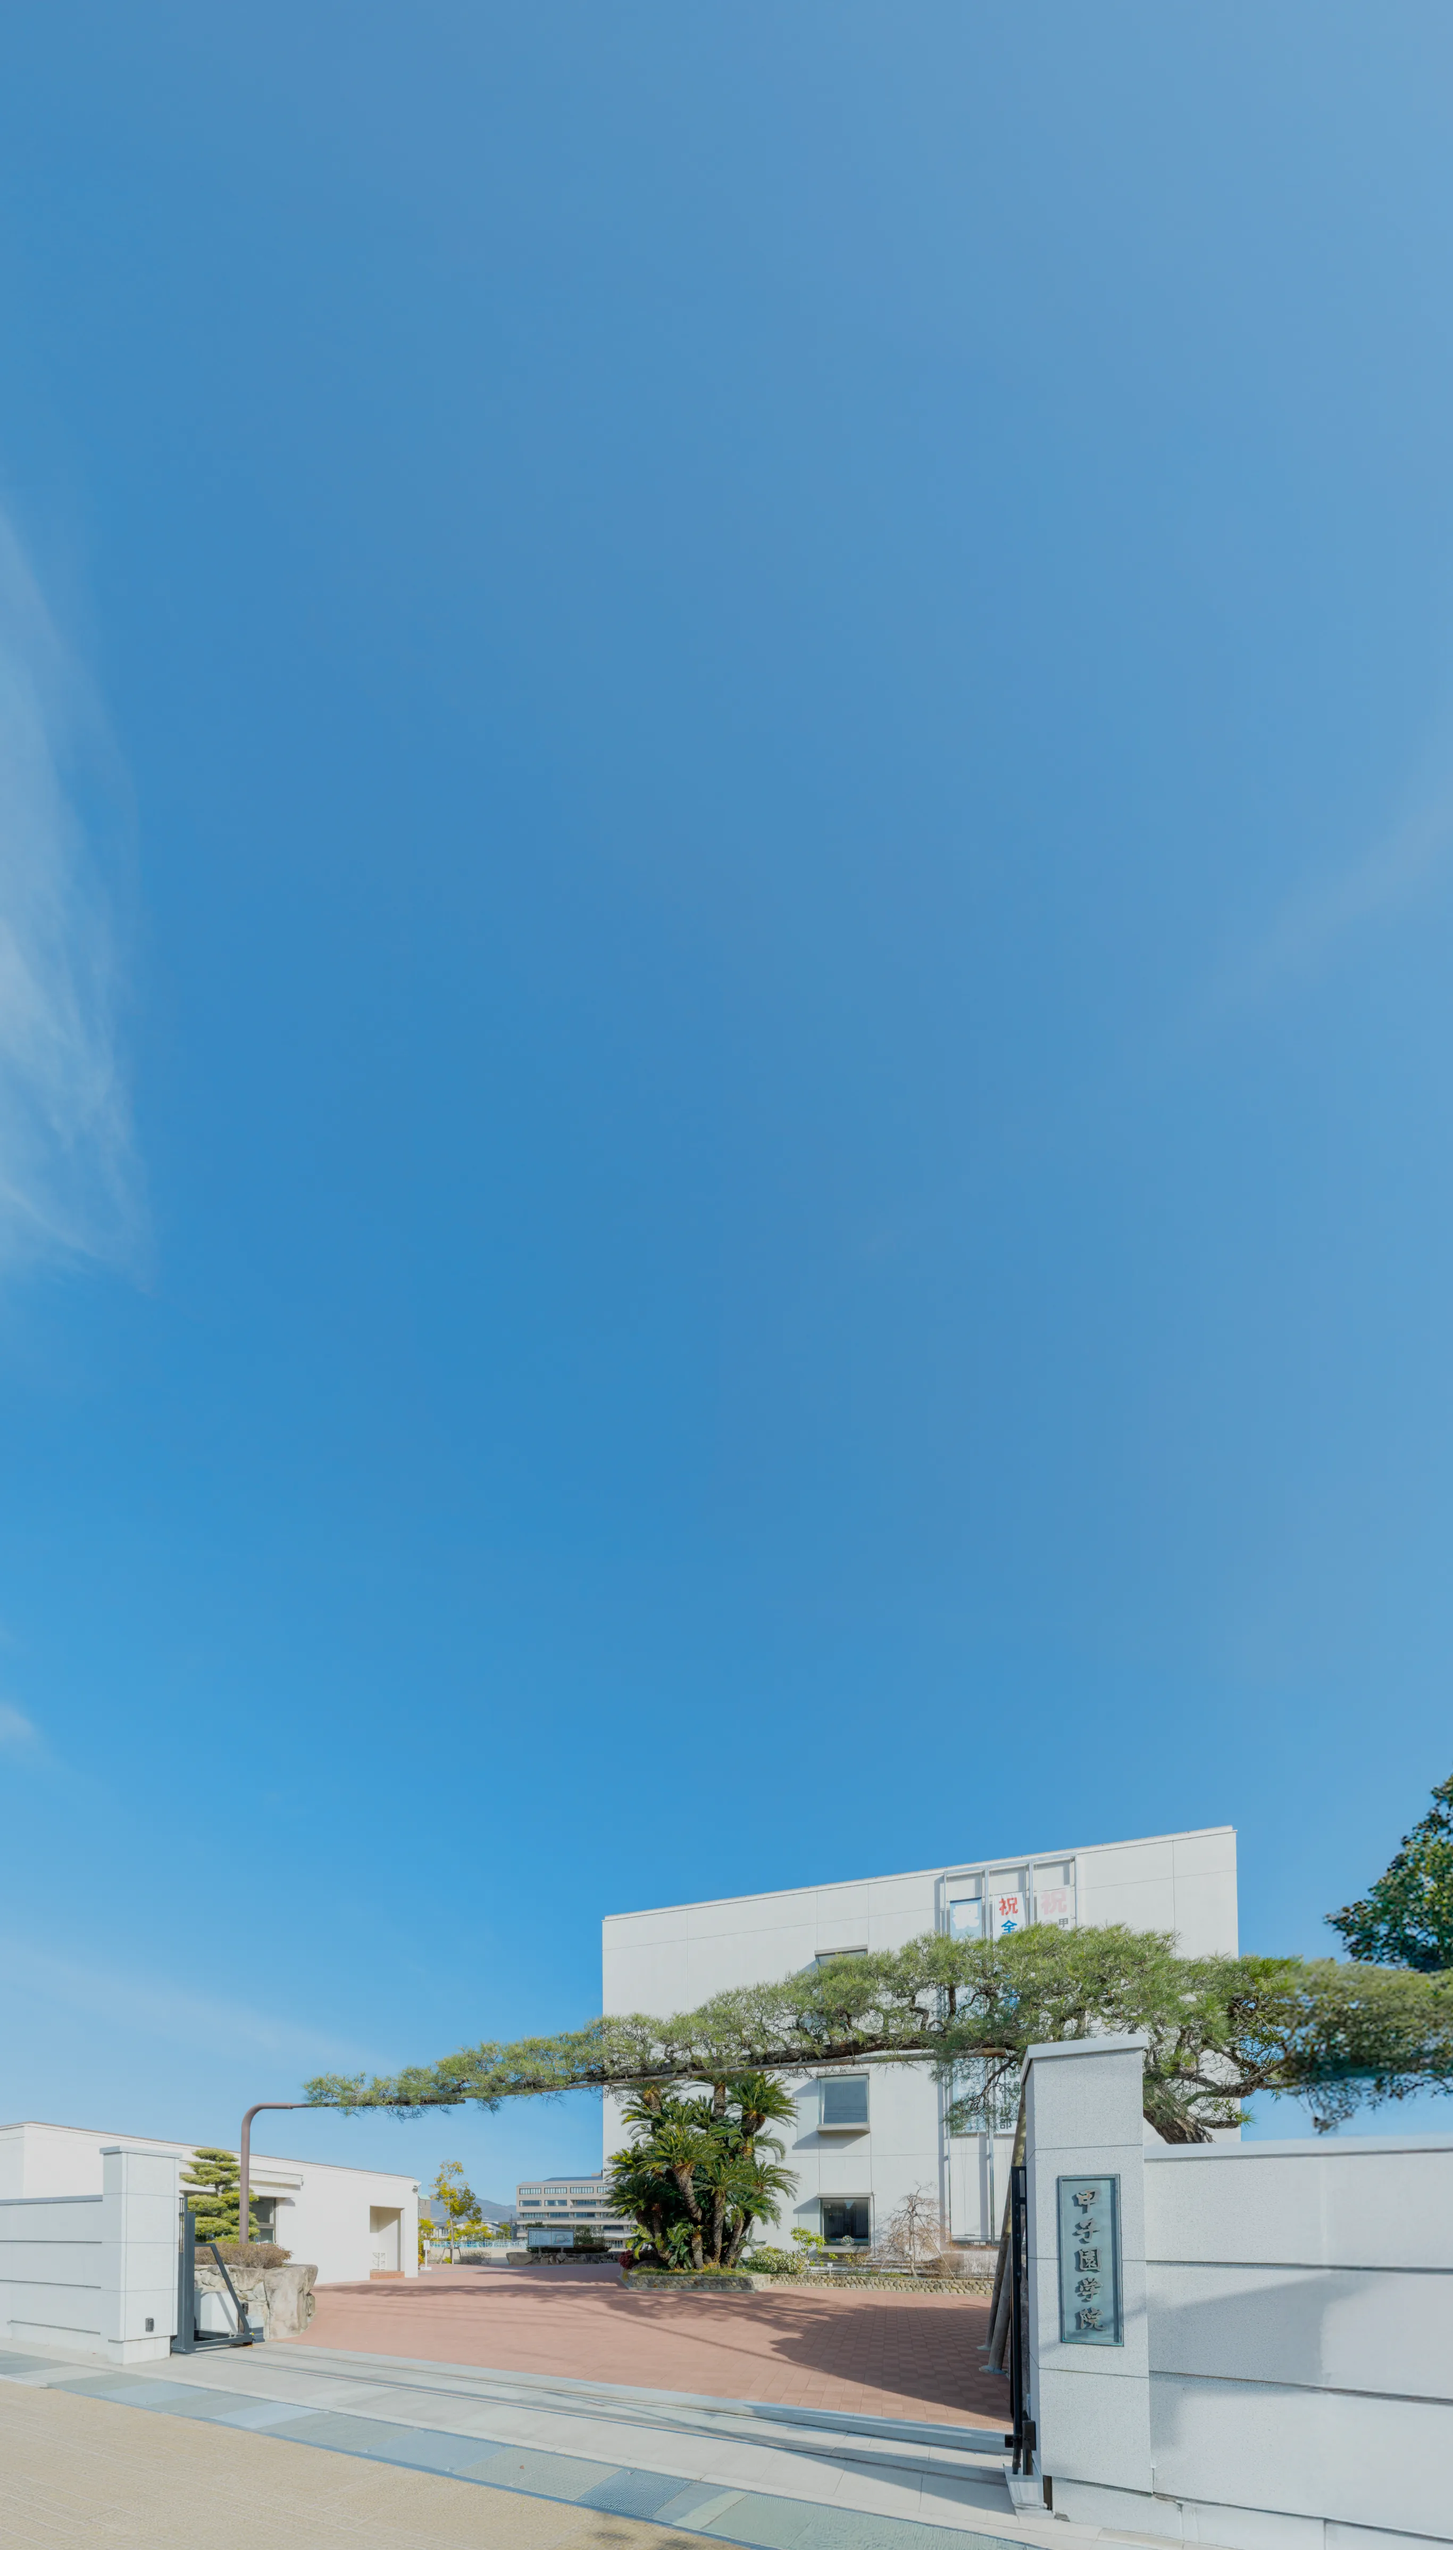
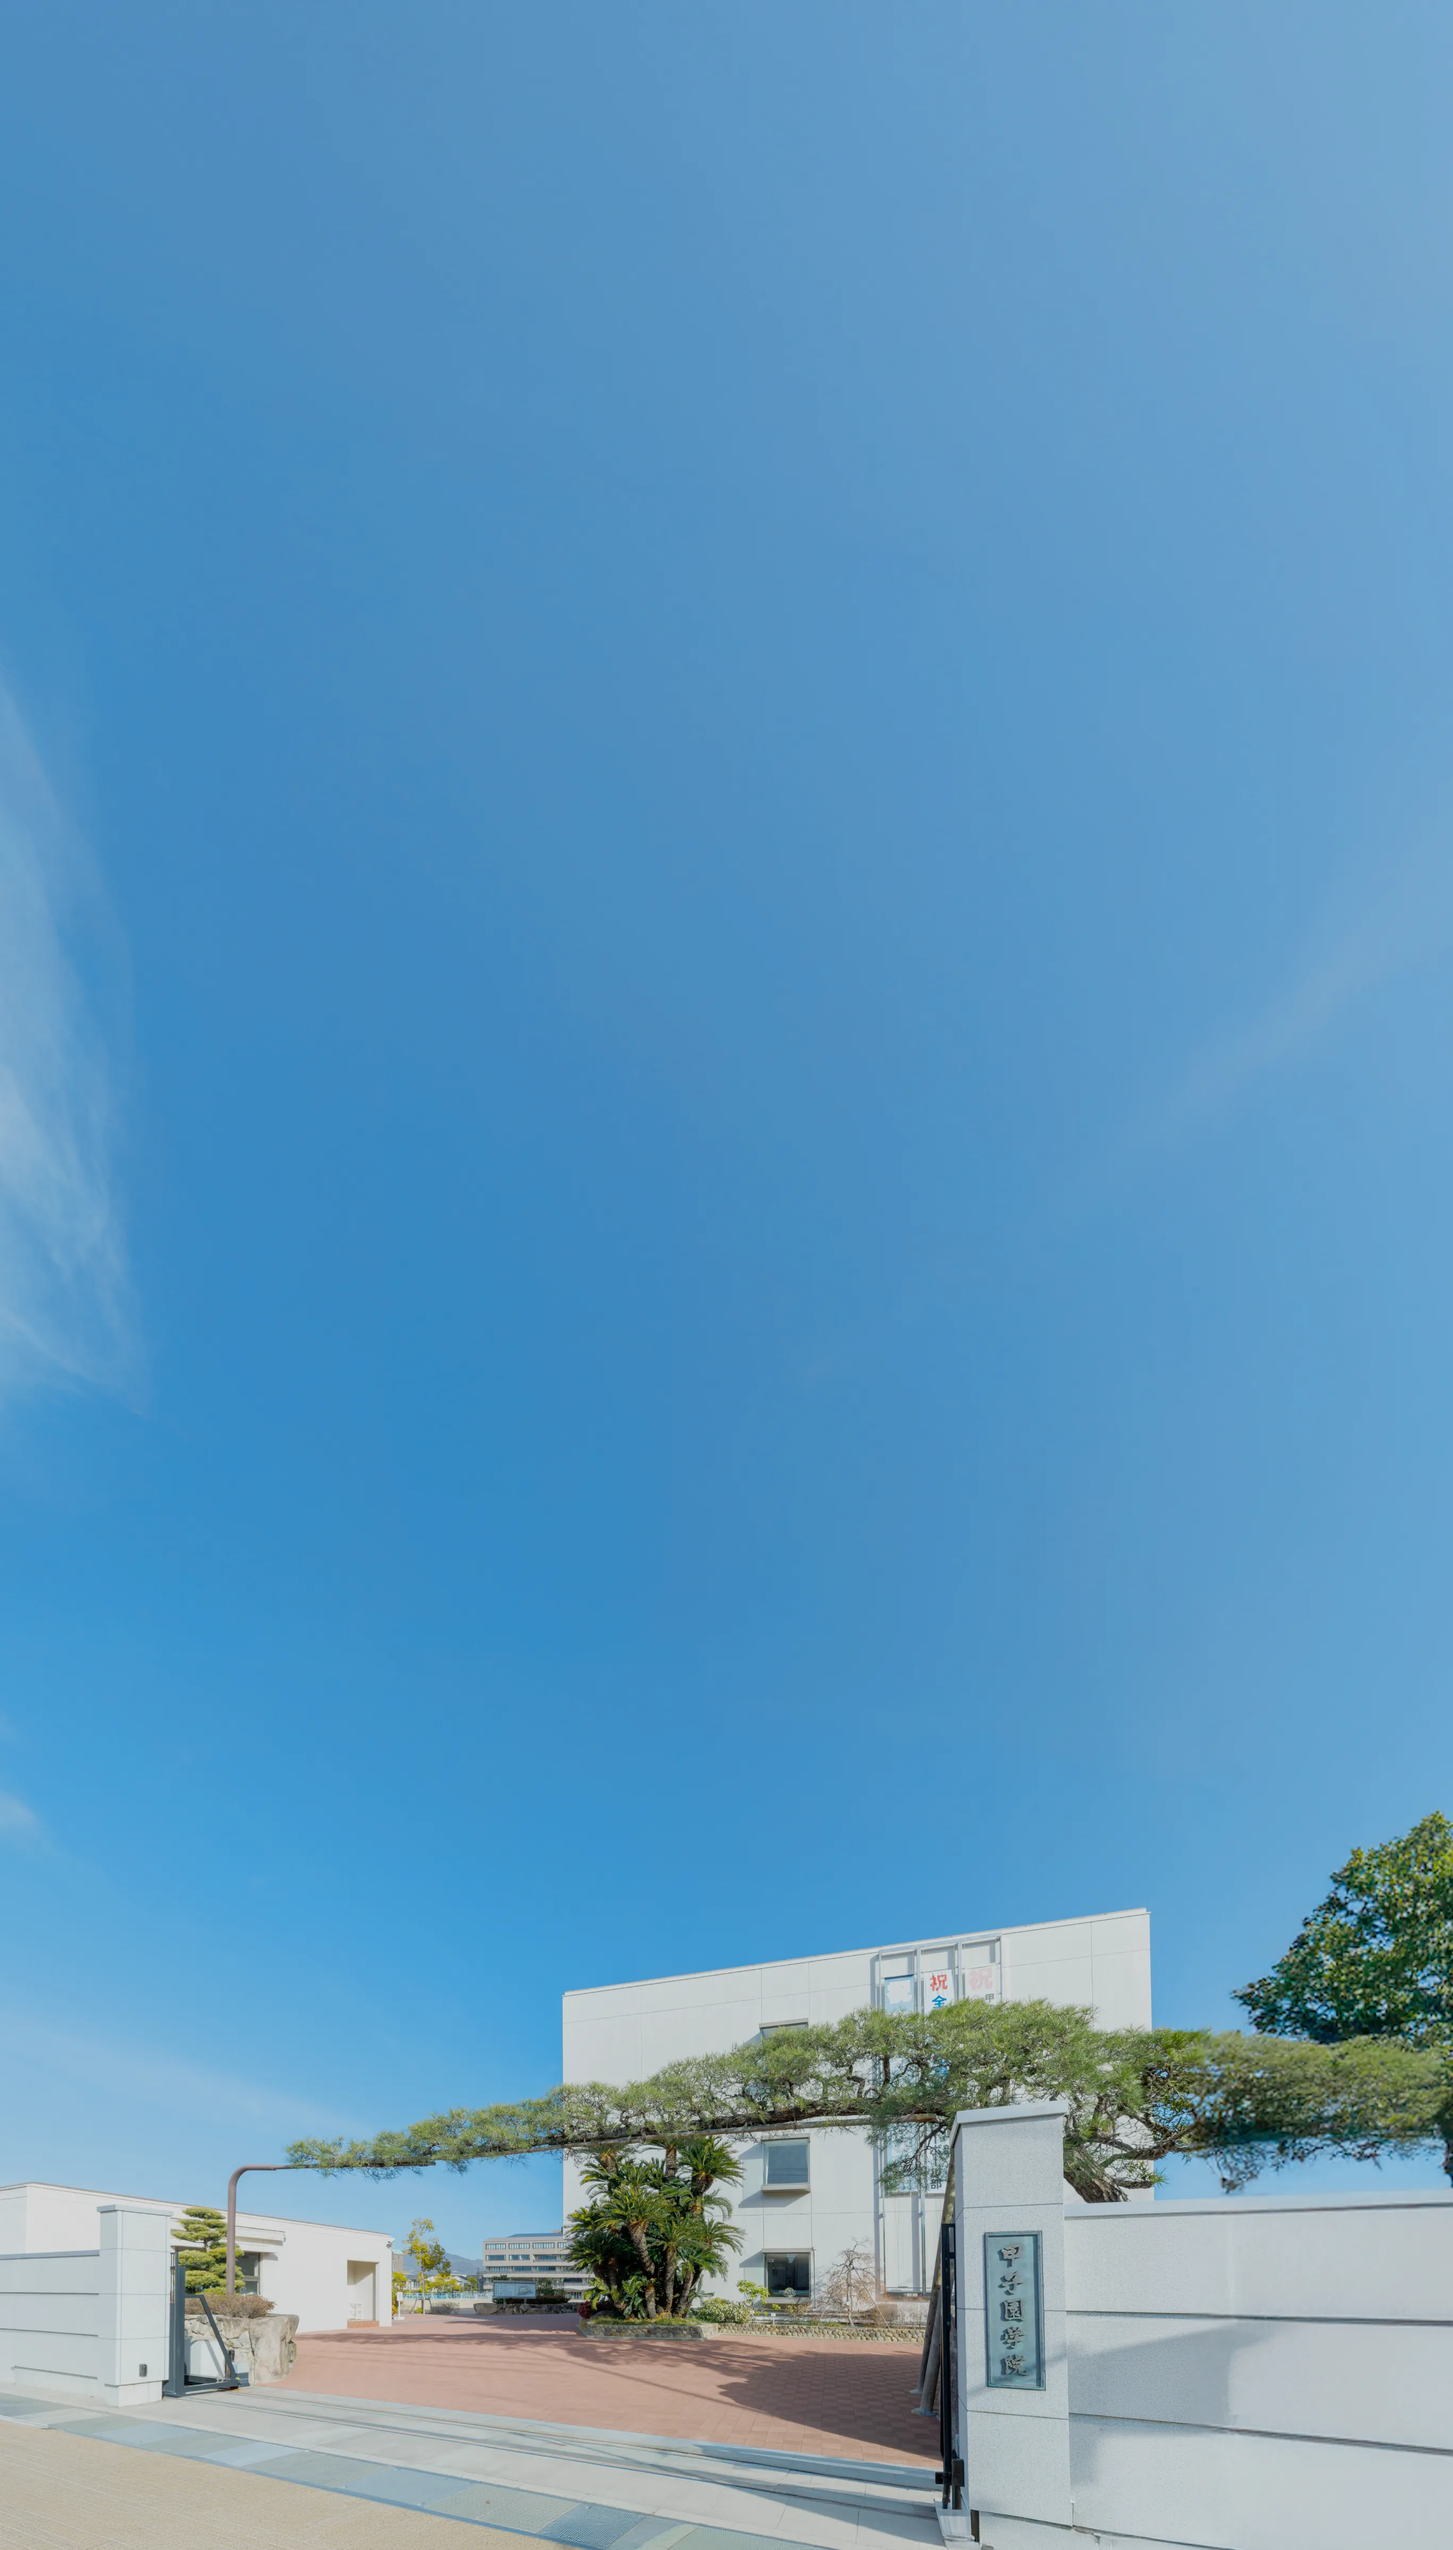
no message

diff --git a/KOSHIEN_academy/sass/page/_about.scss b/KOSHIEN_academy/sass/page/_about.scss
@@ -212,7 +212,7 @@
       // @include imgCover("about/about_history-bg-pc.webp");
       // padding: pmin(90) 0 0;
       // padding: pmin(90) 0 pmin(666);
-      padding: pmin(90) 0 p(666);
+      padding: pmin(125) 0 p(666);
       // height:min(p(2385) , 2800px);
     }
 
@@ -254,7 +254,7 @@
       margin-inline: auto;
 
       @include pc {
-        margin-top: pmin(89);
+        margin-top: pmin(73);
         width: pmin(946);
       }
 
@@ -268,7 +268,7 @@
       justify-content: center;
 
       @include pc {
-        margin-top: pmin(78);
+        margin-top: pmin(70);
         gap: pmin(67);
       }
 
